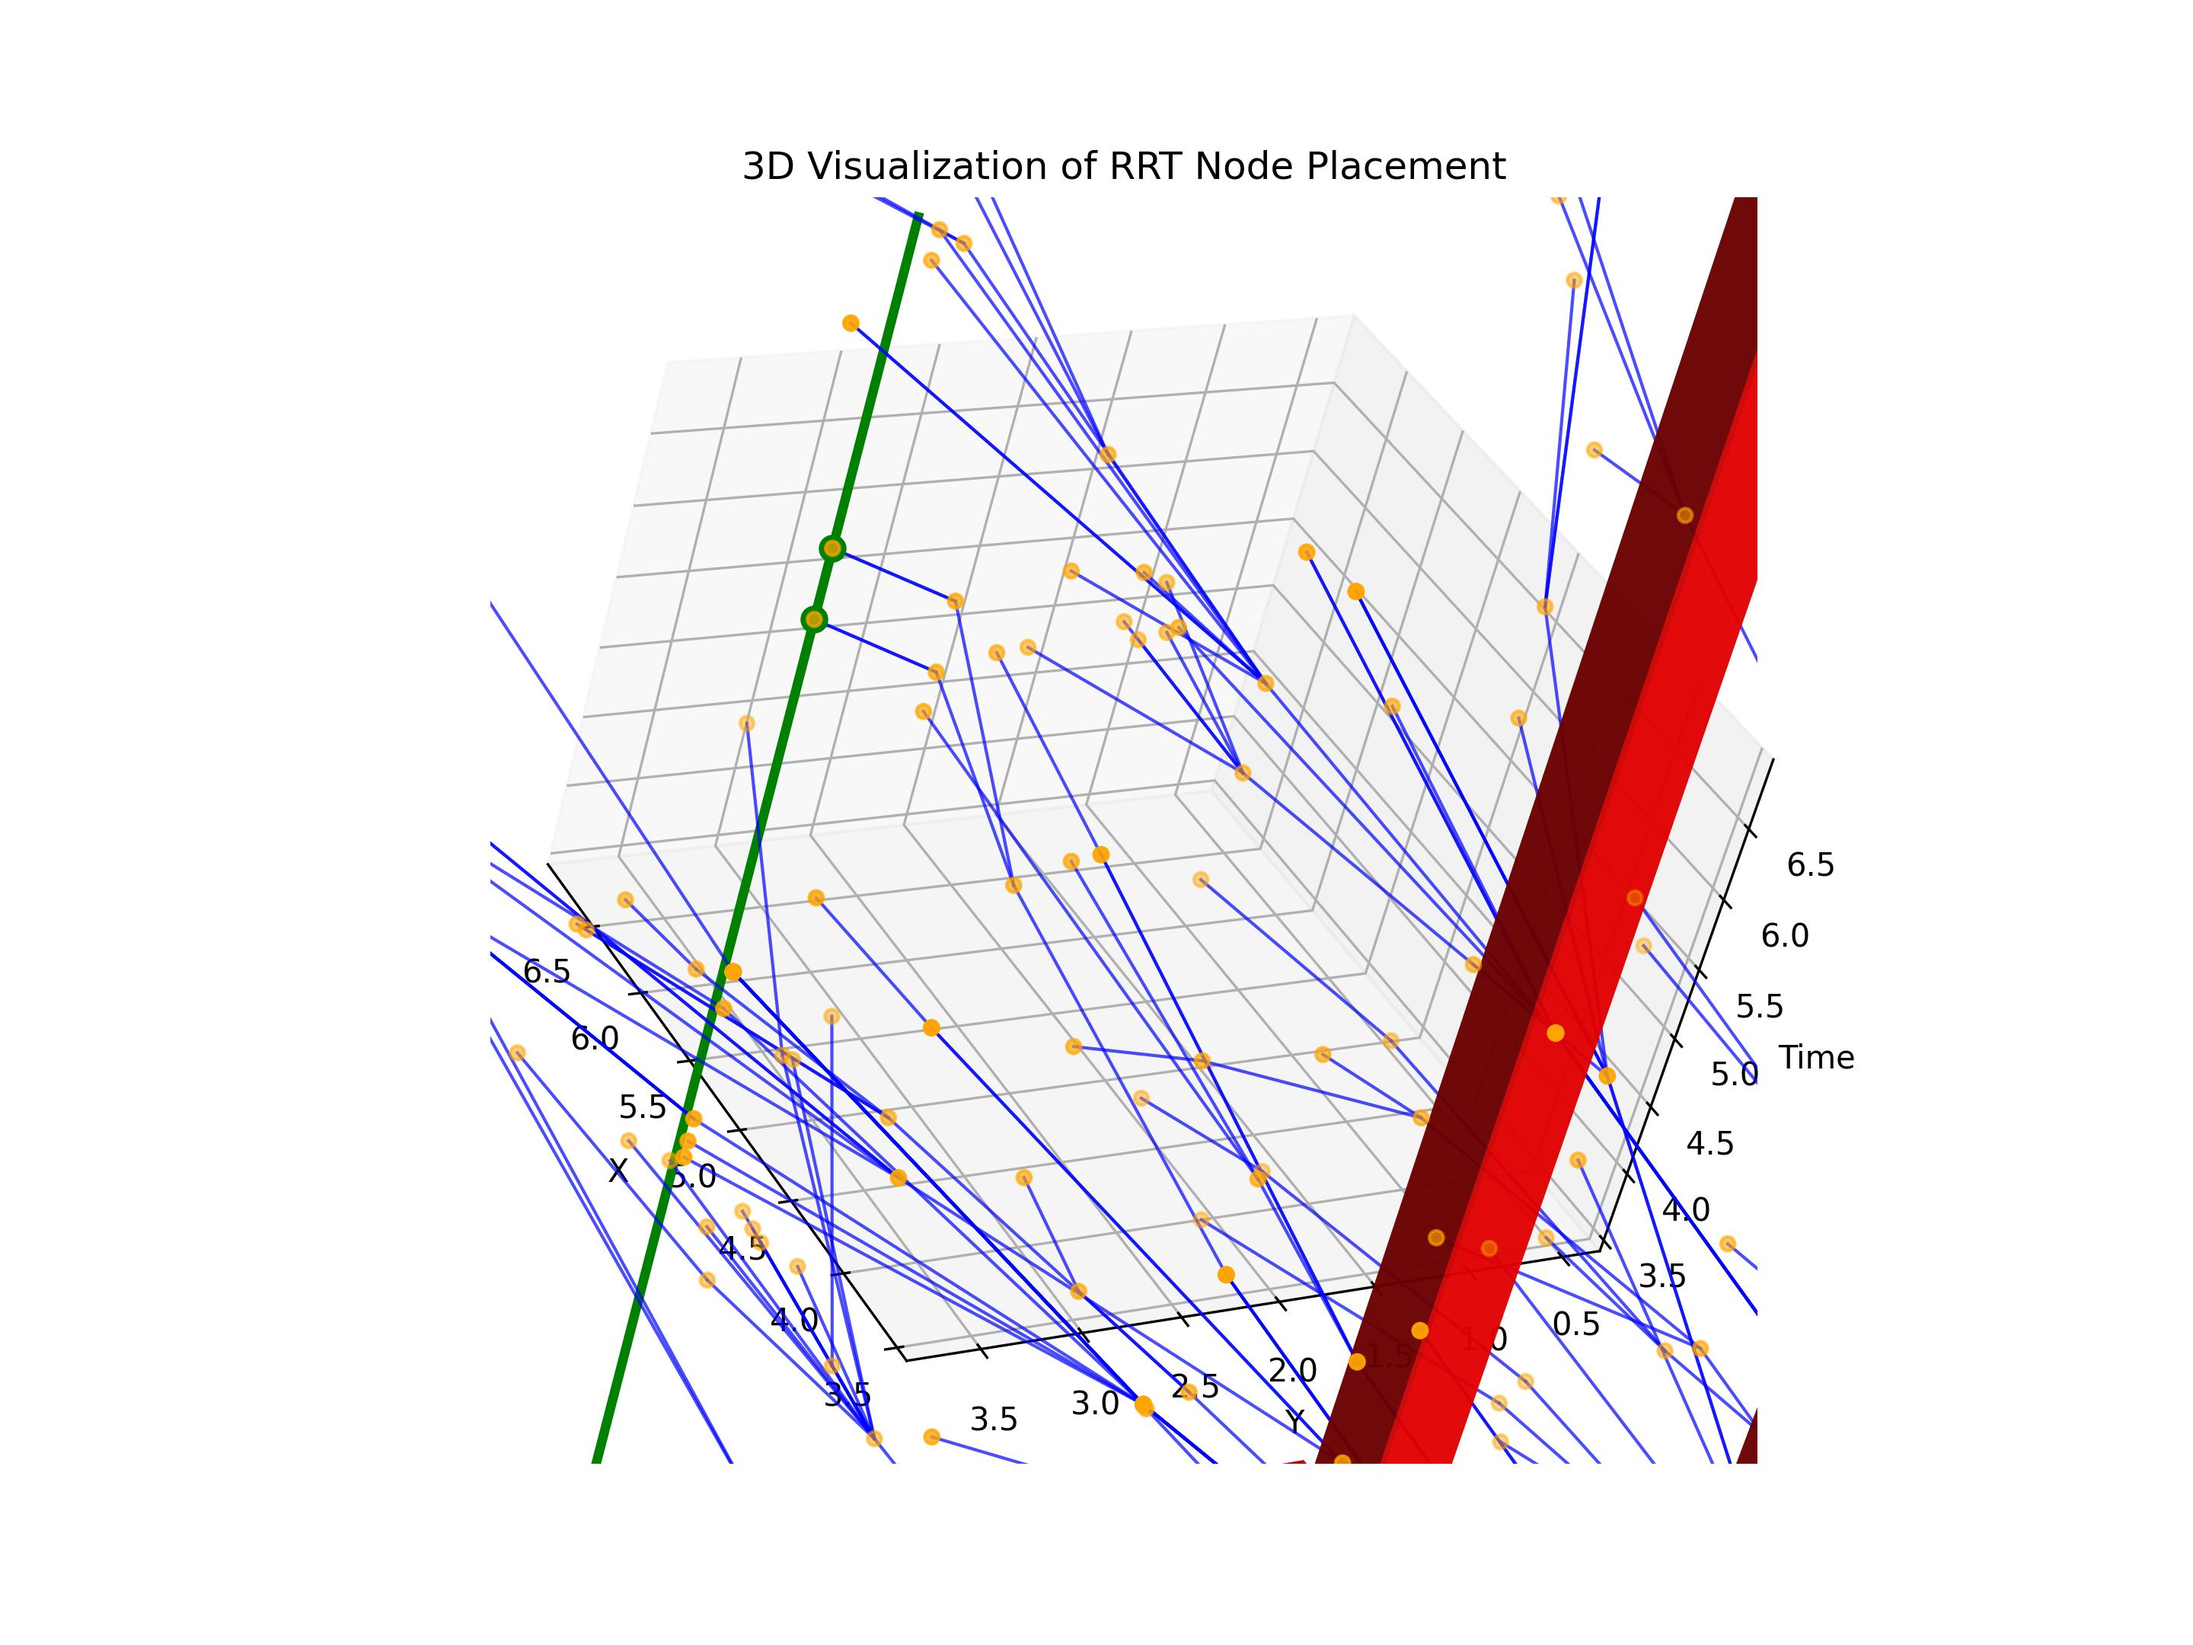
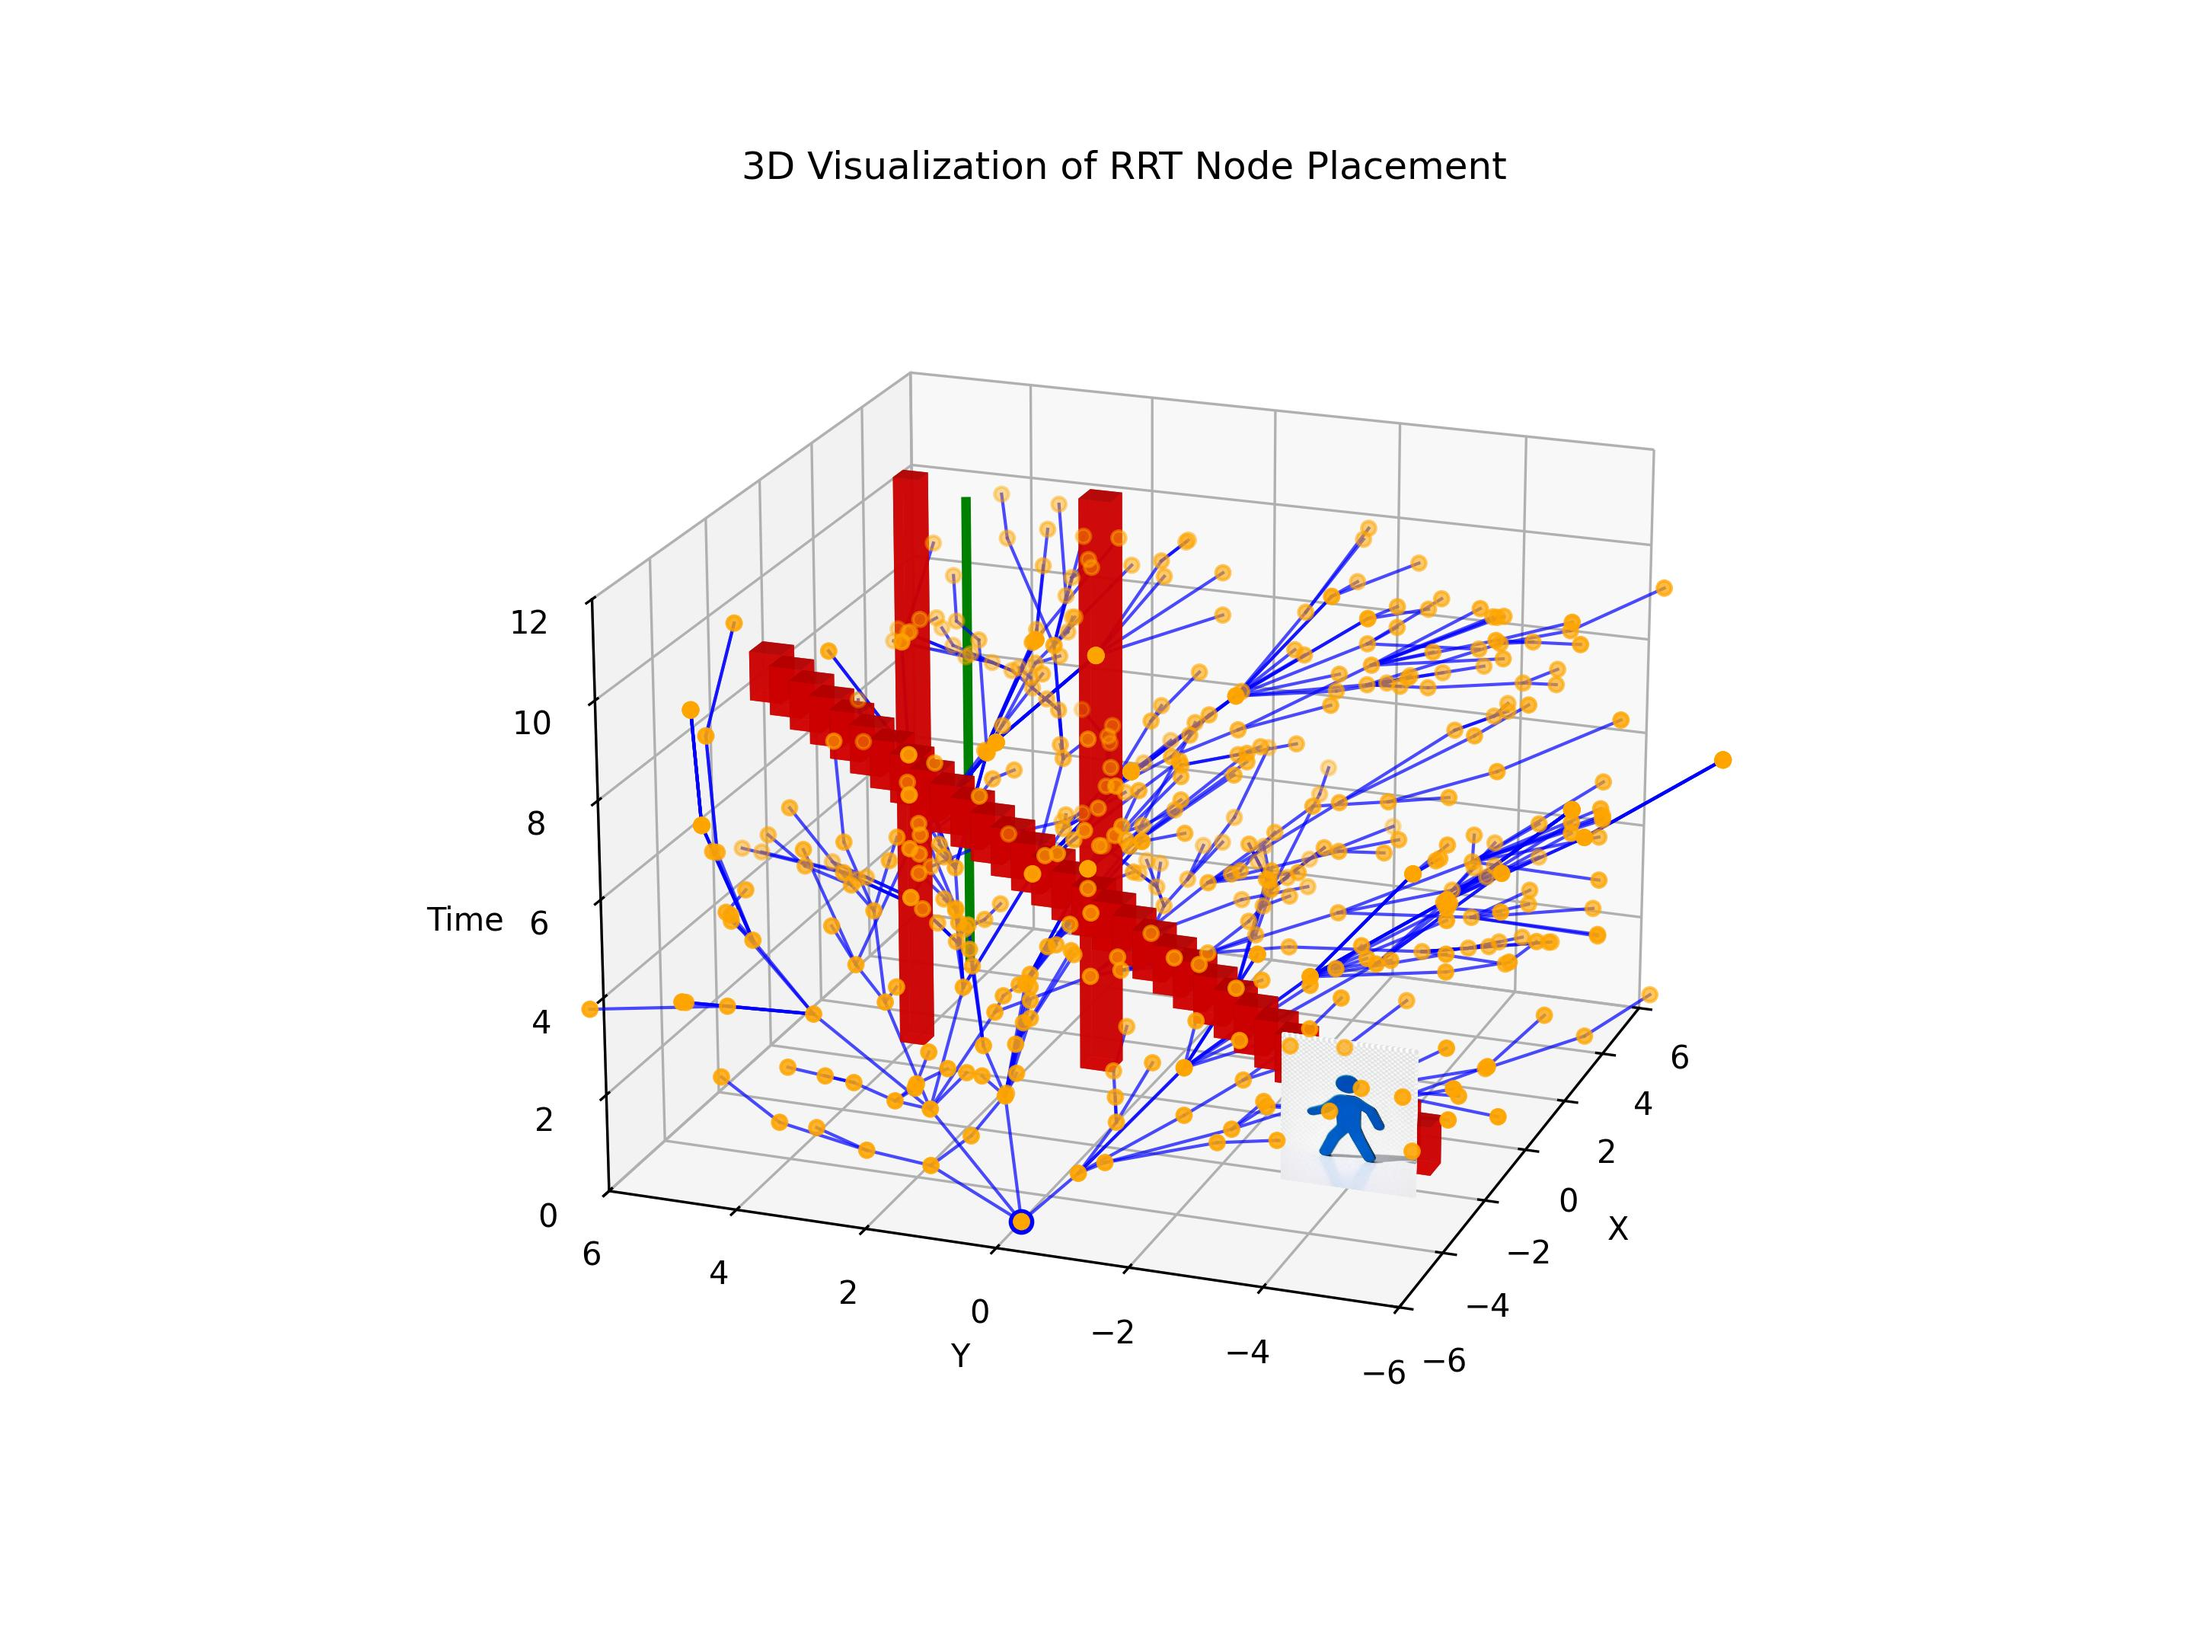
checkpoint

Changed region(s): [[0.2188, 0.1241, 0.8438, 0.8995], [0.25, 0.8375, 0.2812, 0.8995], [0.2188, 0.3722, 0.25, 0.4032]]

diff --git a/graph_visualizer.py b/graph_visualizer.py
@@ -4,6 +4,7 @@ import numpy as np
 import matplotlib.pyplot as plt
 from mpl_toolkits.mplot3d import Axes3D
 import matplotlib.animation as animation
+import matplotlib.image as mpimg
 sys.path.append(os.path.join(os.path.dirname(__file__), '../rrt_graph_builder/rrtDemo'))
 import rrtDemo
 # Enable/disable GIF rendering
@@ -20,7 +21,7 @@ origin_time = 0.0 # Time for origin
 dest_x = 4.5
 dest_y = 4.5
 dest_time = 10.0 # Time for destination (e.g., max_time)
-max_angle_rad = 0.25
+max_angle_rad = 0.3
 max_dist = 2.0
 min_dist = 0.5
 max_interval = 1.5
@@ -35,11 +36,15 @@ range_b = (range_b_x, range_b_y, max_time, 0.0) # Time=0 for range_b
 origin = (origin_x, origin_y, origin_time, initial_heading)
 dest = (dest_x, dest_y, dest_time, 0.0)
 # Define occupancy map as a list of ((x, y, time, heading), width) tuples
+# Add boxes with time (z) determined by the slope, width=0.5, height=1, centroid along the slope line
+# x(y) = -2, y in [-5, 5], 3x density, slope of 16, height of 1
 occupancy_map = [
     ((1.0, 1.0, 12.0, 0.0), 0.5),
-    ((2.5, 2.5, 2.0, 0.0), 2.0),
-    ((3.0, 1.5, 12.0, 0.0), 0.4)
+    ((1.0, 4.0, 12.0, 0.0), 0.4)
 ]
+for y in np.linspace(-5, 5, num=33):  # 33 boxes for 3x density
+    z_centroid = 1.0 + 8 * (y + 5) / 10  # slope line for centroid, slope reduced from 12 to 8
+    occupancy_map.append(((-2.0, y, z_centroid, 0.0), 0.5))  # z_centroid is the center, box height is always 1
 
 vis_rrt = rrtDemo.RRT(
     occupancy_map, range_a, range_b, origin, dest,
@@ -119,6 +124,19 @@ if render_gif:
         (x, y, z, heading), w = occ
         h = z # Use the z (time) value from the tuple as the height of the prism
         obstacle_data.append((x - w / 2, y - w / 2, 0, w, w, h))
+    # Load the image
+    img = mpimg.imread("rrt_plot.jpeg")  # Use your JPG filename
+
+    # Set desired image height in plot
+    img_height = 2.0  # Height in plot units
+    img_width = img.shape[1] / img.shape[0] * img_height  # Scale width proportionally
+
+    # Define the location and size for the image "billboard"
+    img_x = np.linspace(-1, -1 + img_width, img.shape[1])
+    img_y = np.linspace(-5, -5 + img_height, img.shape[0])
+    img_x, img_y = np.meshgrid(img_x, img_y)
+    img_z = np.zeros_like(img_x)  # z=0 for the bottom
+
     def animate(frame):
         ax_anim.cla()
         # Replot obstacles
@@ -155,6 +173,7 @@ if render_gif:
         ax_anim.set_ylim(-6, 6)
         ax_anim.set_zlim(0, 12)
         ax_anim.view_init(elev=20, azim=-160)  # <-- Rotate view 180 degrees clockwise
+        ax_anim.plot_surface(img_x, img_y, img_z, rstride=1, cstride=1, facecolors=img, shade=False)
     # Create and save the animation as GIF
     anim = animation.FuncAnimation(fig_anim, animate, frames=num_frames, interval=interval_ms, blit=False, repeat=True)
     anim.save('rrt_animation.gif', writer='pillow')
@@ -172,11 +191,17 @@ for i in range(node_count):
 # Create the static 3D plot (larger size)
 fig = plt.figure(figsize=(9.6, 7.2))
 ax = fig.add_subplot(111, projection='3d')
-# Plot each occupancy grid cell as a rectangular prism (assuming square base in XY, height along Z)
+
 for occ in occupancy_map:
     (x, y, z, heading), w = occ
-    h = z # Use the z (time) value from the tuple as the height of the prism
-    ax.bar3d(x - w / 2, y - w / 2, 0, w, w, h, shade=True, color='red', alpha=0.8)
+    # For the two vertical bars, plot from z=0 up to z=12
+    if (x, y, z) == (1.0, 1.0, 12.0) or (x, y, z) == (1.0, 4.0, 12.0):
+        ax.bar3d(x - w / 2, y - w / 2, 0, w, w, z, shade=True, color='red', alpha=0.8)
+    else:
+        # For sloped bars, use height 1 centered at z
+        h = 1.0
+        ax.bar3d(x - w / 2, y - w / 2, z - h / 2, w, w, h, shade=True, color='red', alpha=0.8)
+
 # Plot a blue dot at the first node
 ax.scatter(first_x, first_y, first_z, color='blue', s=50)
 # Plot a vertical green line at the destination (orthogonal to z/time plane)
@@ -210,6 +235,26 @@ ax.set_xlim(-6, 6)
 ax.set_ylim(-6, 6)
 ax.set_zlim(0, 12)
 ax.view_init(elev=20, azim=-160)  # <-- Rotate view 180 degrees clockwise
+
+# Load your JPG image (make sure it's not the plot you just saved)
+img = mpimg.imread("Crosswalk.jpg")
+if img.dtype == np.uint8:
+    img = img.astype(np.float32) / 255.0
+
+img = np.flipud(img)      # Flip vertically (upright)
+img = np.fliplr(img)      # Flip horizontally (invert left to right)
+
+img_height = 3.0
+img_width = img.shape[1] / img.shape[0] * img_height
+
+# For the yz plane, x is fixed, y and z vary
+fixed_x = -2.2  # x position for the left edge of the image
+img_y = np.linspace(-5, -5 + img_width, img.shape[1])
+img_z = np.linspace(0, img_height, img.shape[0])
+img_y, img_z = np.meshgrid(img_y, img_z)
+img_x = np.full_like(img_y, fixed_x)
+
+ax.plot_surface(img_x, img_y, img_z, rstride=1, cstride=1, facecolors=img, shade=False)
 
 # Show and save the static plot
 plt.show()
